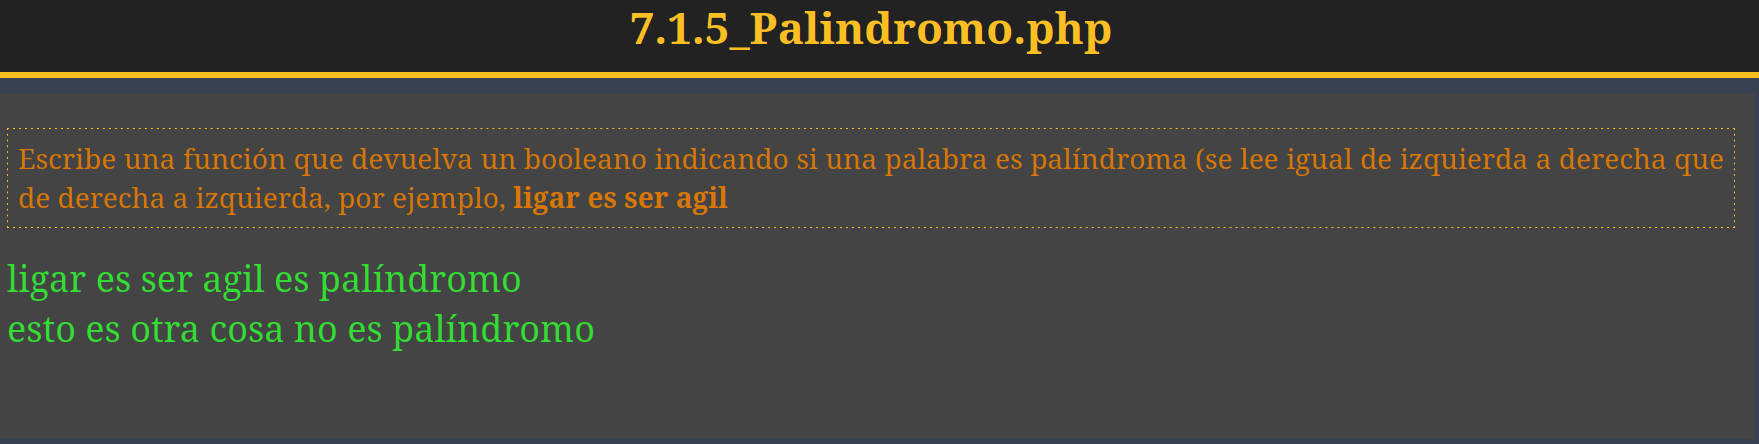
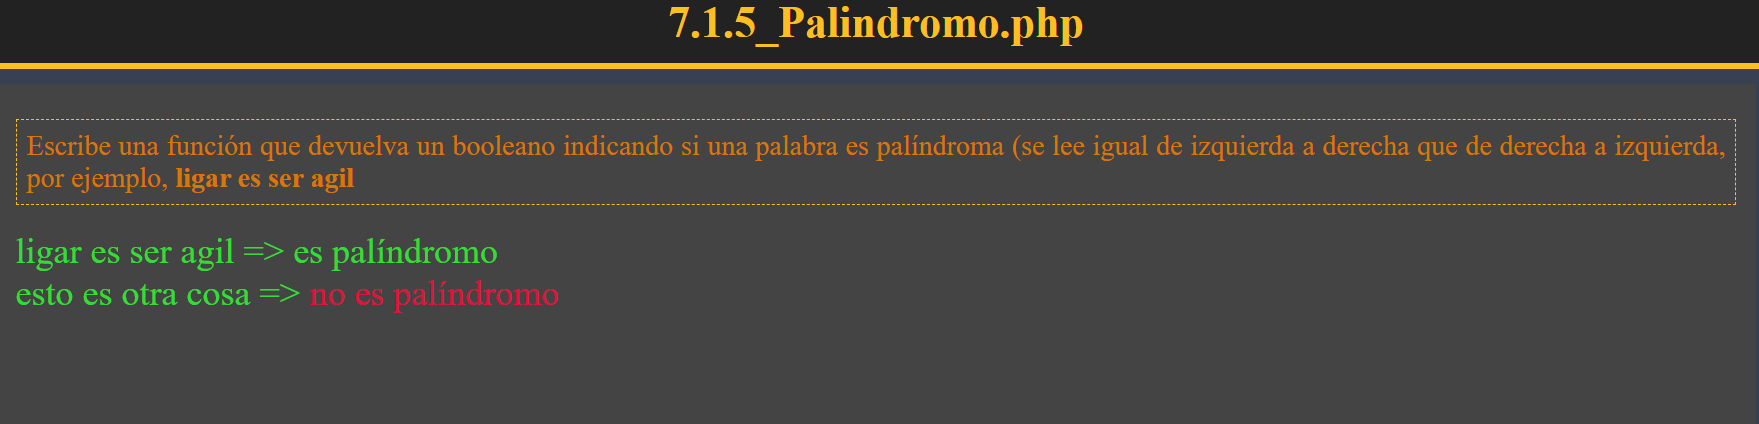
some style fixes

Changed region(s): [[0.0, 0.2759, 0.9824, 0.4906], [0.0, 0.0, 1.0, 0.184], [0.0, 0.5825, 0.3377, 0.7972]]

diff --git a/tema_2/7.1.5_Palindromo.php b/tema_2/7.1.5_Palindromo.php
@@ -17,9 +17,9 @@ function isPalindrome(string $sentence) : bool{
 
 function show(string $sentence){
   if(isPalindrome($sentence))
-    echo $sentence.' es palíndromo<br>';
+    echo $sentence.' => <span>es palíndromo</span><br>';
   else
-    echo $sentence.' no es palíndromo<br>';
+    echo $sentence.' => <span style="color: crimson;">no es palíndromo</span><br>';
 }
 
 
